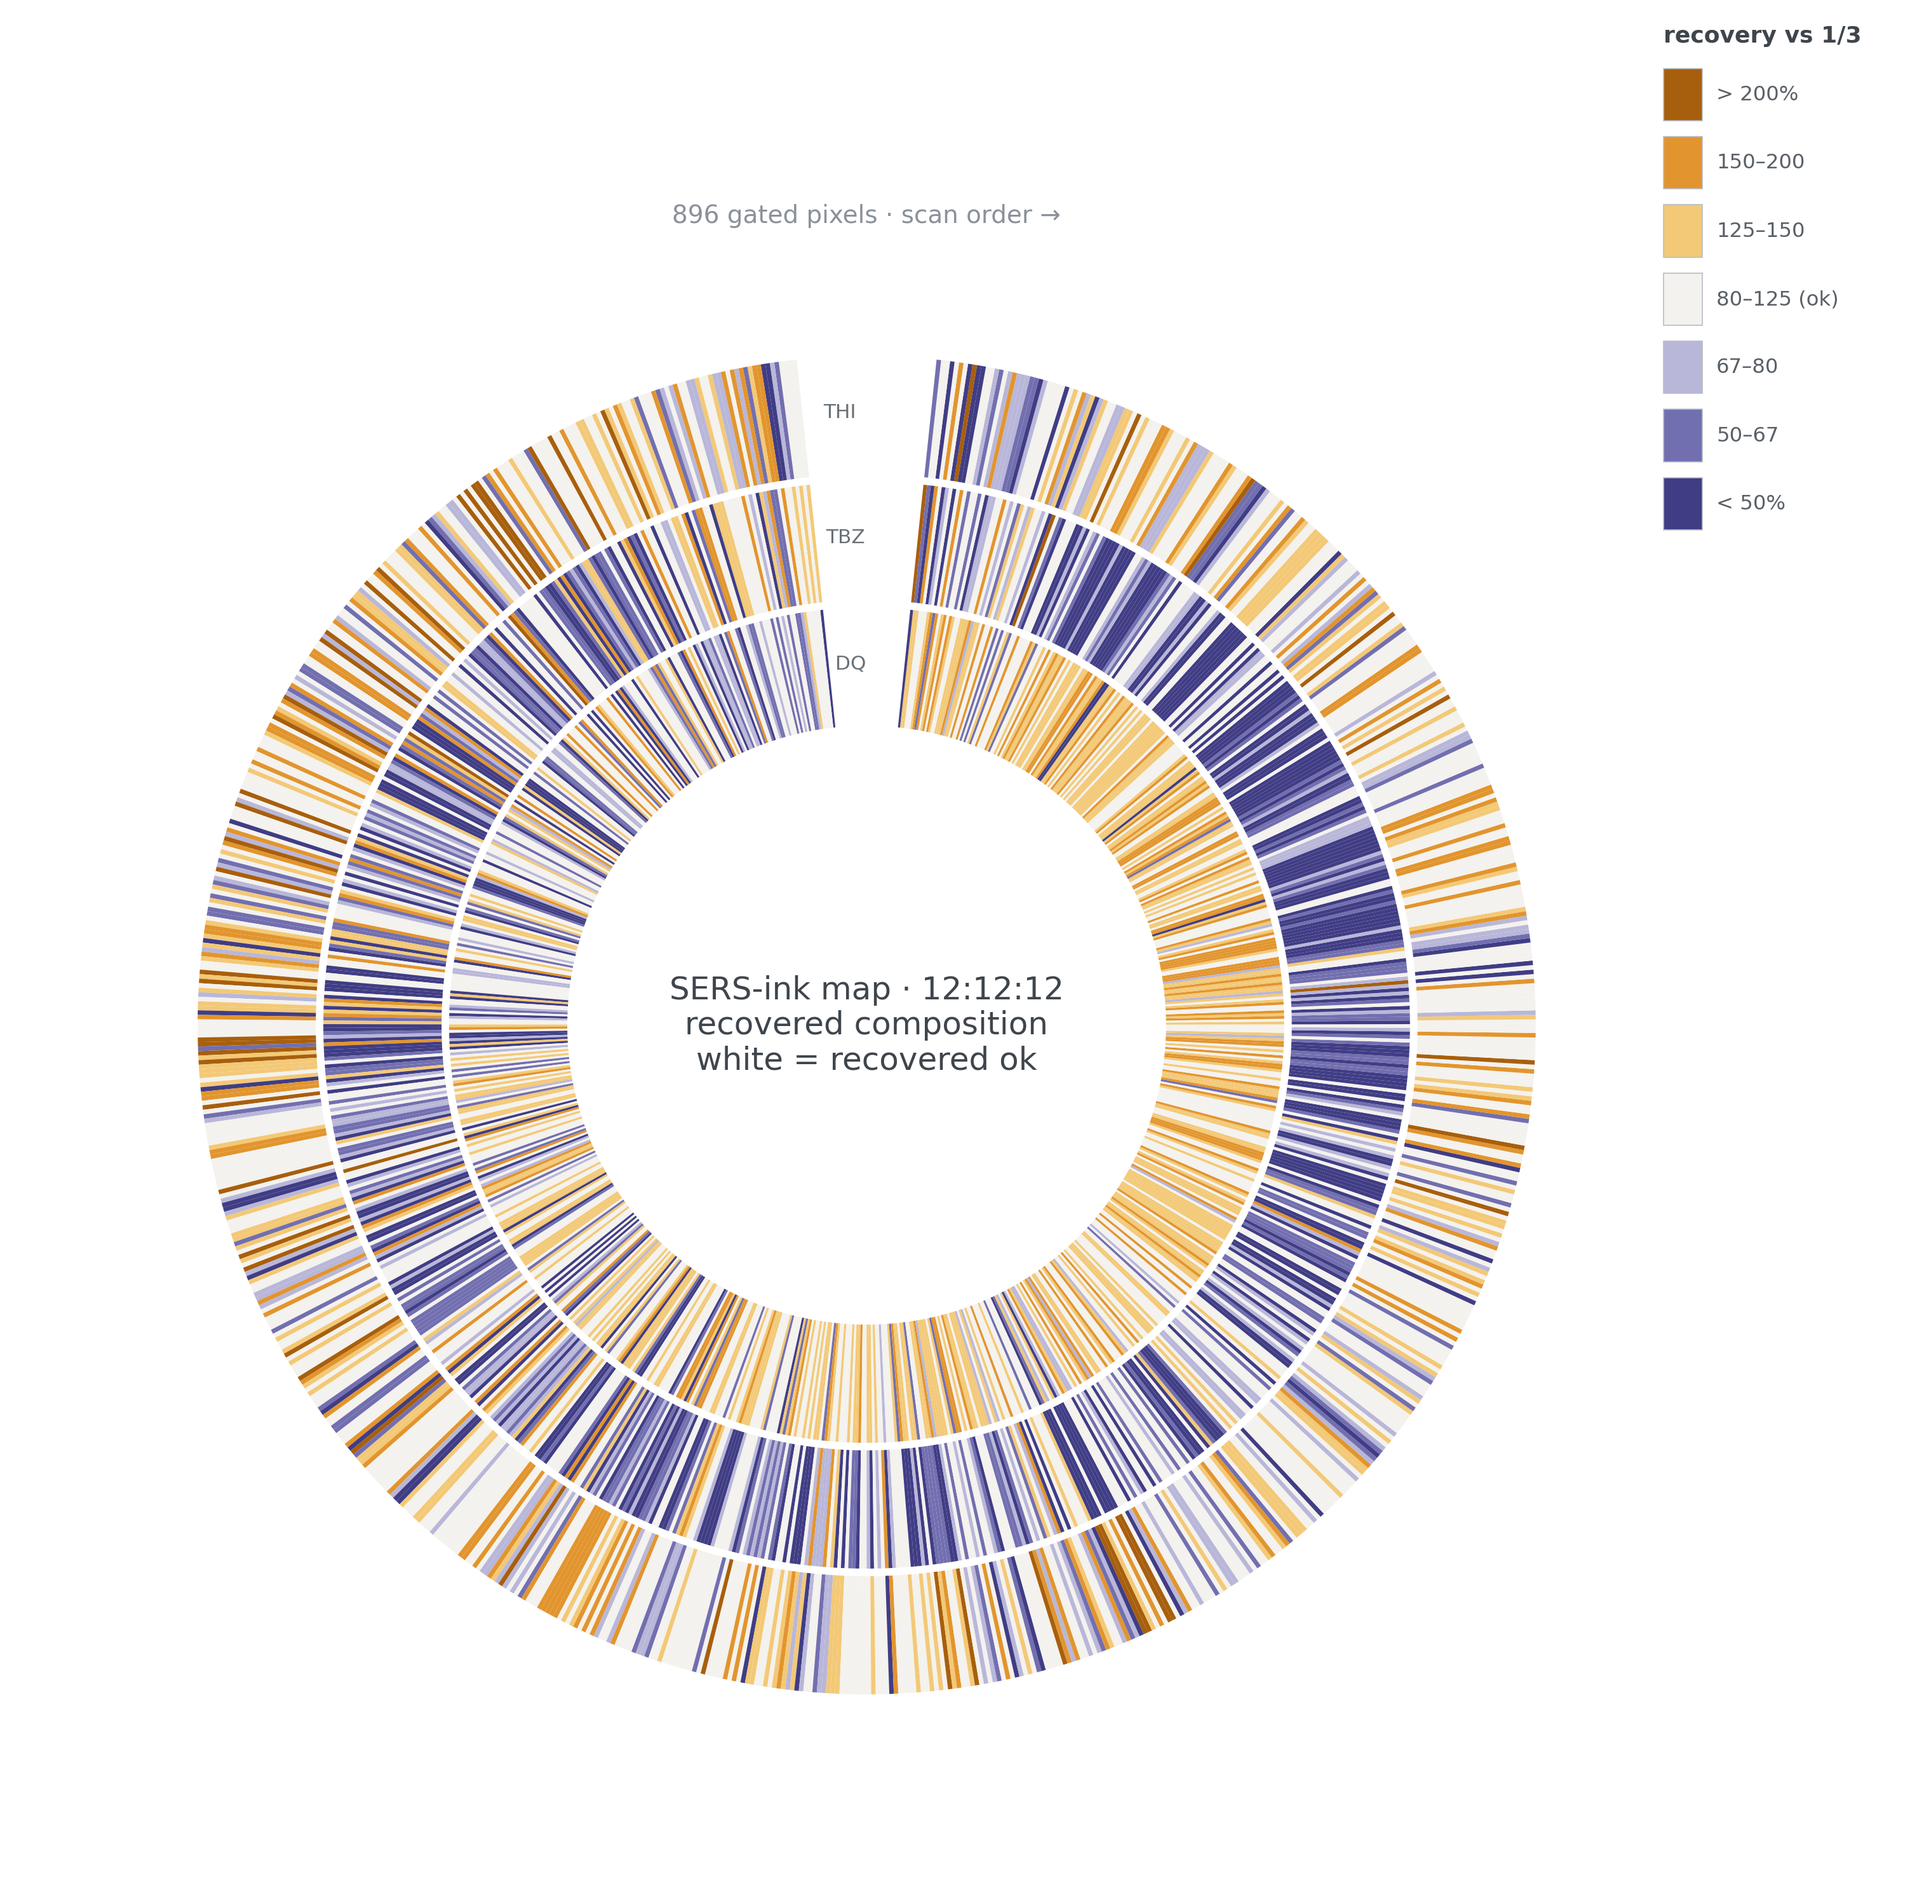
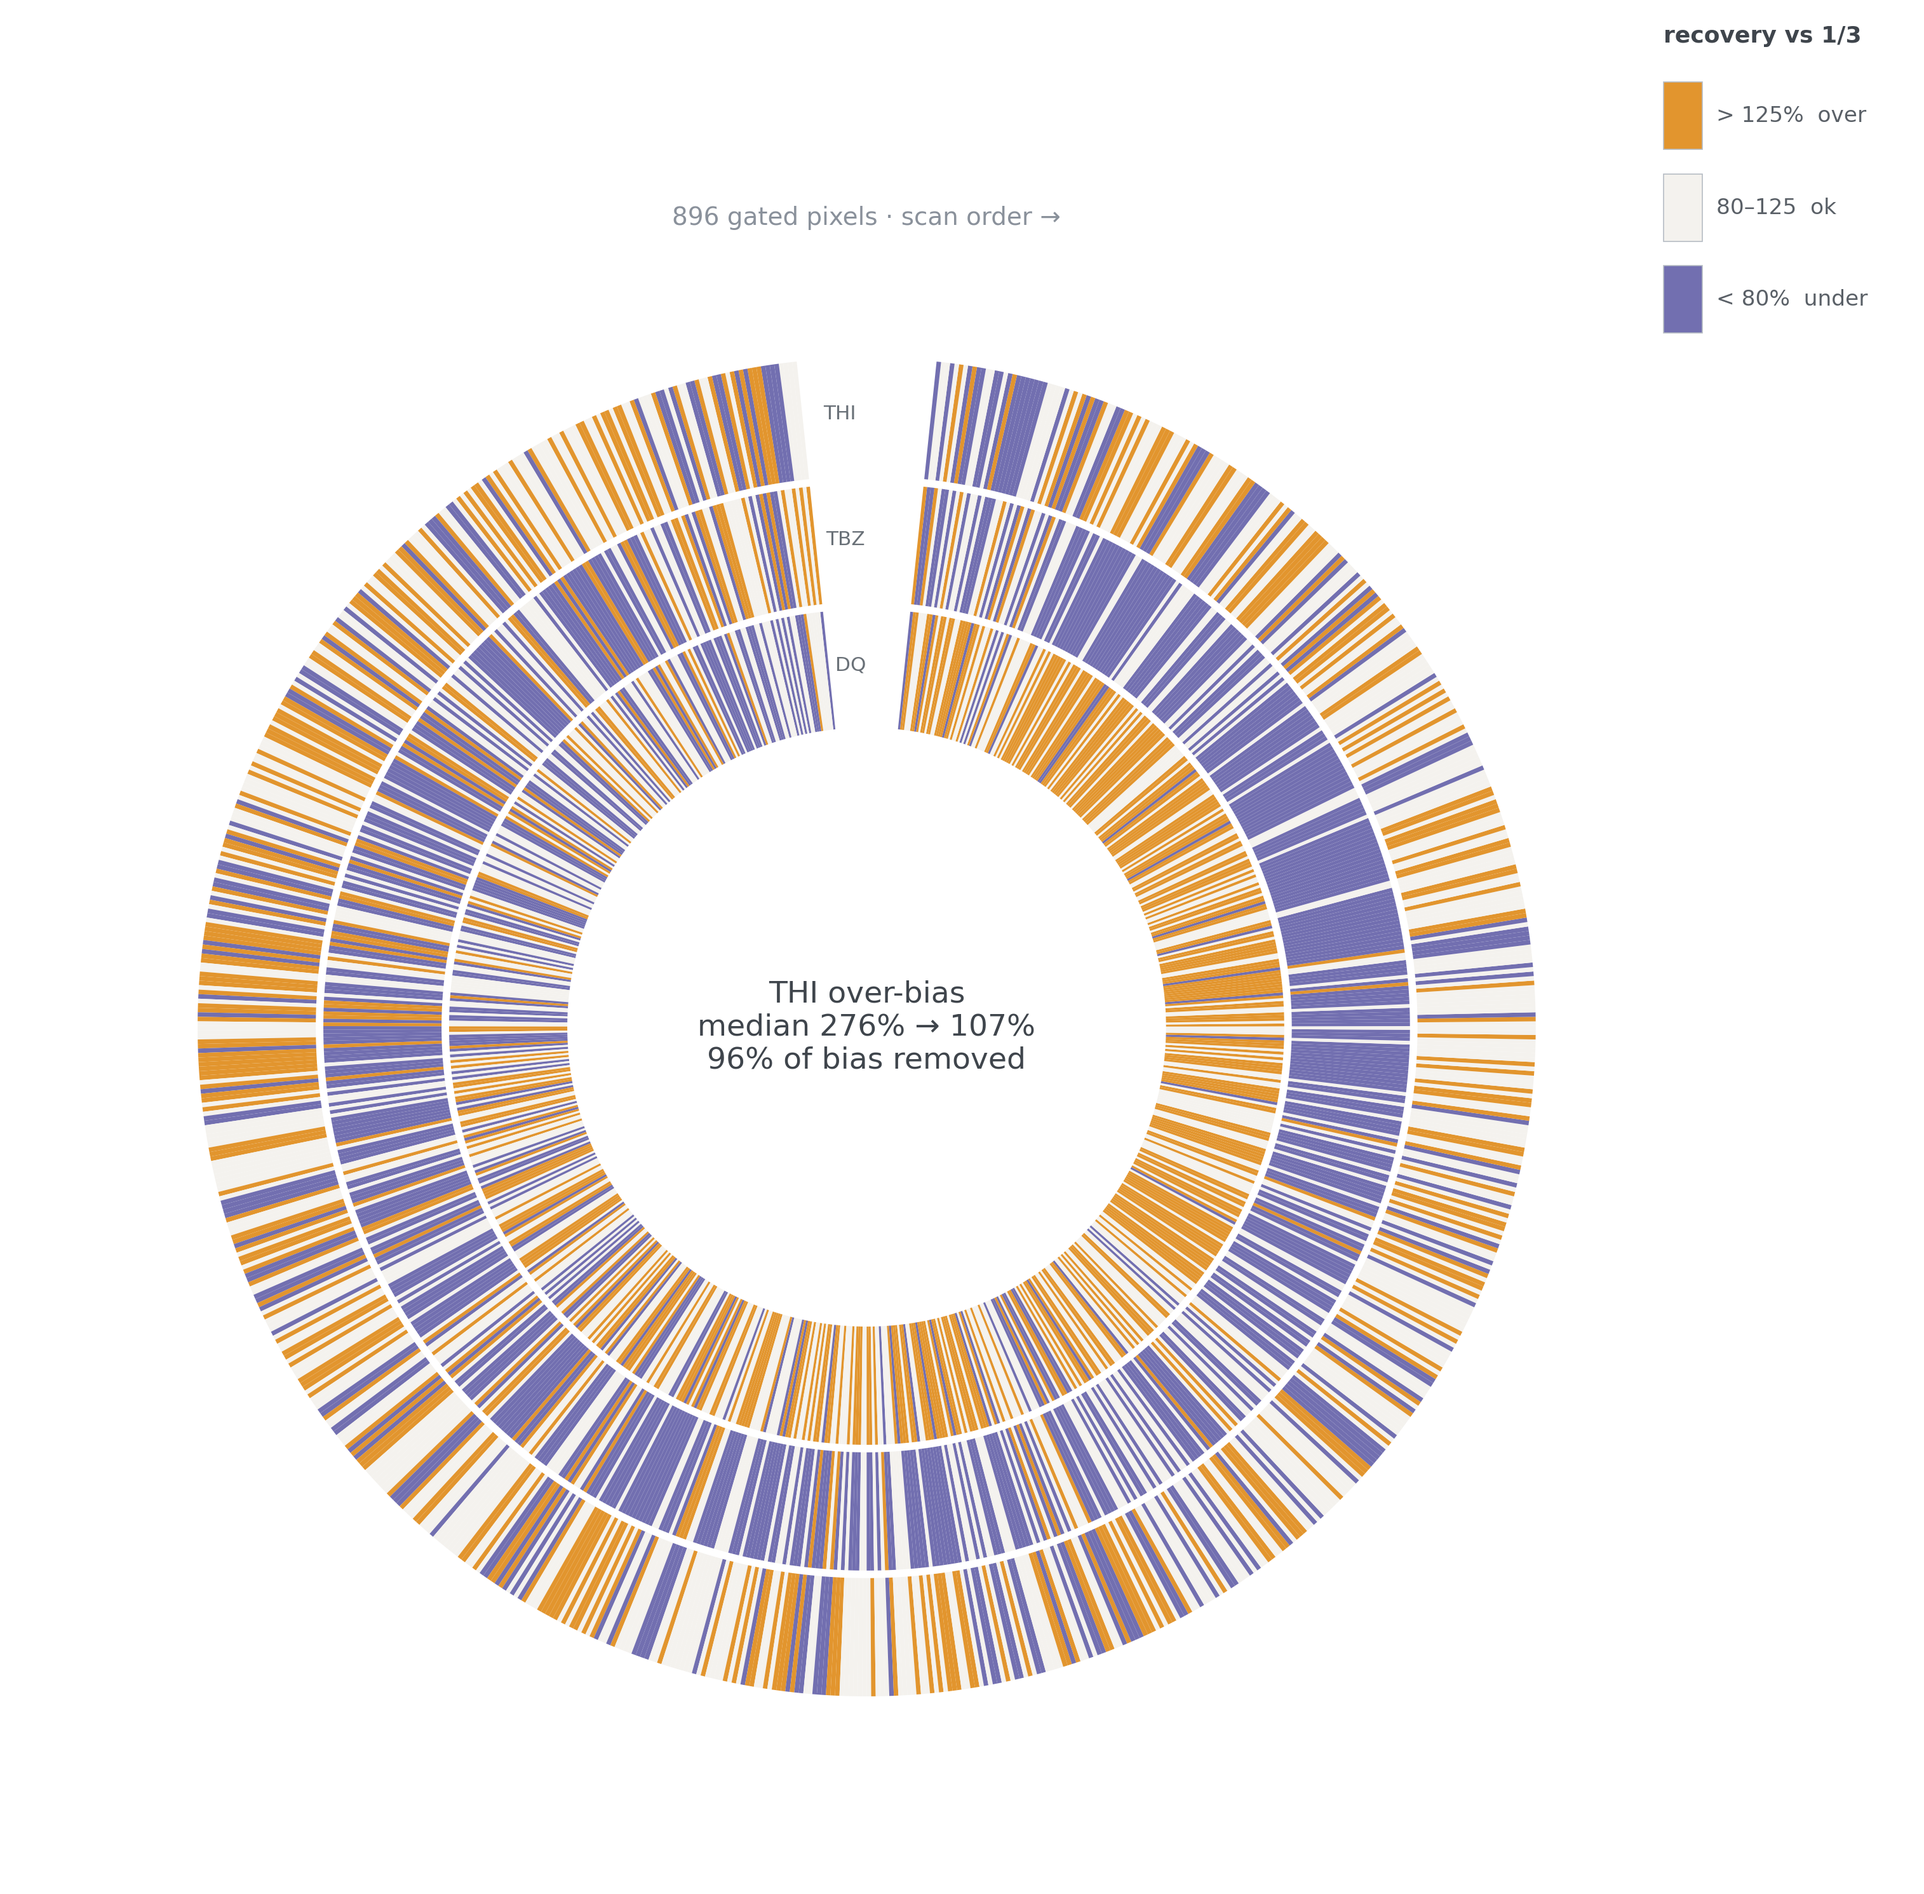
62b: 3-color classes (white ok / orange over / purple under), center prose replaced by quantitative THI bias-removal stat (276->107 pct, 96 pct removed)

diff --git a/documentation/scripts/fig62b_circular_realmap.py b/documentation/scripts/fig62b_circular_realmap.py
@@ -44,18 +44,17 @@ RES = os.path.join(ROOT, "documentation", "results")
 SUBS = ["DQ", "TBZ", "THI"]
 TRUE = 1.0 / 3.0
 
-OVER = ["#f4f2ee", "#f3c977", "#e2952e", "#a85f0d"]
-UNDER = ["#f4f2ee", "#b9b7d9", "#726fb0", "#403d85"]
-_EDGES = [np.log2(1.25), np.log2(1.5), 1.0]
+# 3색만 (사용자 지정): 흰 = 80–125%(합격) / 주황 = 과대 / 보라 = 과소
+C_OK, C_OVER, C_UNDER = "#f4f2ee", "#e2952e", "#726fb0"
+_TOL = np.log2(1.25)
 
 
 def classify(v):
     if not np.isfinite(v):
         return "#d9dde2"
-    a = abs(v)
-    k = (0 if a <= _EDGES[0] else 1 if a <= _EDGES[1]
-         else 2 if a <= _EDGES[2] else 3)
-    return (OVER if v > 0 else UNDER)[k]
+    if abs(v) <= _TOL:
+        return C_OK
+    return C_OVER if v > 0 else C_UNDER
 
 
 m = load_model(DLM)
@@ -78,7 +77,7 @@ print("positive pixels:", n)
 
 Lres = np.log2(np.clip(Rres[sel].T / TRUE, 1e-3, None))   # (3, n)
 Lsurf = np.log2(np.clip(Rsurf[sel].T / TRUE, 1e-3, None))
-ok_frac = [(np.abs(Lres[k]) <= _EDGES[0]).mean() * 100 for k in range(3)]
+ok_frac = [(np.abs(Lres[k]) <= _TOL).mean() * 100 for k in range(3)]
 print("recovered ok(80-125%) fraction:",
       {s: f"{f:.0f}%" for s, f in zip(SUBS, ok_frac)})
 
@@ -90,19 +89,18 @@ w_c = edges[1] - edges[0]
 
 
 def legend(fig):
-    lax = fig.add_axes([0.875, 0.70, 0.11, 0.24])
+    lax = fig.add_axes([0.875, 0.80, 0.11, 0.14])
     lax.set_axis_off()
-    items = [(OVER[3], "> 200%"), (OVER[2], "150–200"),
-             (OVER[1], "125–150"), (OVER[0], "80–125 (ok)"),
-             (UNDER[1], "67–80"), (UNDER[2], "50–67"), (UNDER[3], "< 50%")]
-    lax.text(0.02, 1.02, "recovery vs 1/3", fontsize=6.5, color="#3f454c",
+    items = [(C_OVER, "> 125%  over"), (C_OK, "80–125  ok"),
+             (C_UNDER, "< 80%  under")]
+    lax.text(0.02, 1.04, "recovery vs 1/3", fontsize=6.5, color="#3f454c",
              weight="bold")
     for i, (c, t) in enumerate(items):
-        y = 0.92 - i * 0.13
-        lax.add_patch(plt.Rectangle((0.02, y - 0.05), 0.16, 0.10,
+        y = 0.80 - i * 0.30
+        lax.add_patch(plt.Rectangle((0.02, y - 0.11), 0.16, 0.22,
                                     facecolor=c, edgecolor="#b6bcc4",
                                     linewidth=0.3))
-        lax.text(0.24, y, t, fontsize=5.8, color="#5a6067", va="center")
+        lax.text(0.24, y, t, fontsize=6.2, color="#5a6067", va="center")
 
 
 def draw(groups, tag, center):
@@ -118,8 +116,9 @@ def draw(groups, tag, center):
                     fontsize=5.6, color="#6a7178", ha="center", va="center",
                     zorder=4)
     r_out = R0 + len(groups) * 3 * DR + (GAP if len(groups) > 1 else 0)
-    ax.text(np.deg2rad(90), 0.0, center, fontsize=9, color="#3f454c",
-            ha="center", va="center", zorder=4)
+    if center:
+        ax.text(np.deg2rad(90), 0.0, center, fontsize=8.5, color="#3f454c",
+                ha="center", va="center", zorder=4)
     ax.text(np.deg2rad(90), r_out + 0.42,
             f"{n} gated pixels · scan order →", fontsize=7,
             color="#8a919b", ha="center")
@@ -134,7 +133,13 @@ def draw(groups, tag, center):
     print(f"saved {tag}.png")
 
 
-draw([Lres], "62b_realmap_recovered",
-     "SERS-ink map · 12:12:12\nrecovered composition\nwhite = recovered ok")
-draw([Lsurf, Lres], "62b_realmap_both",
-     "SERS-ink map · 12:12:12\nsurface → recovered\n(inner → outer)")
+# 중앙 문구는 서사 대신 정량 한 줄: THI 과대편향을 몇 % 제거했나
+# (중앙값 기준, (surface−100%) 대비 (surface−recovered))
+m_s = float(np.median(2 ** Lsurf[2])) * 100
+m_r = float(np.median(2 ** Lres[2])) * 100
+removed = (m_s - m_r) / (m_s - 100) * 100 if m_s > 100 else float("nan")
+stat = (f"THI over-bias\nmedian {m_s:.0f}% → {m_r:.0f}%\n"
+        f"{removed:.0f}% of bias removed")
+print(stat.replace("\n", "  "))
+draw([Lres], "62b_realmap_recovered", stat)
+draw([Lsurf, Lres], "62b_realmap_both", stat)
